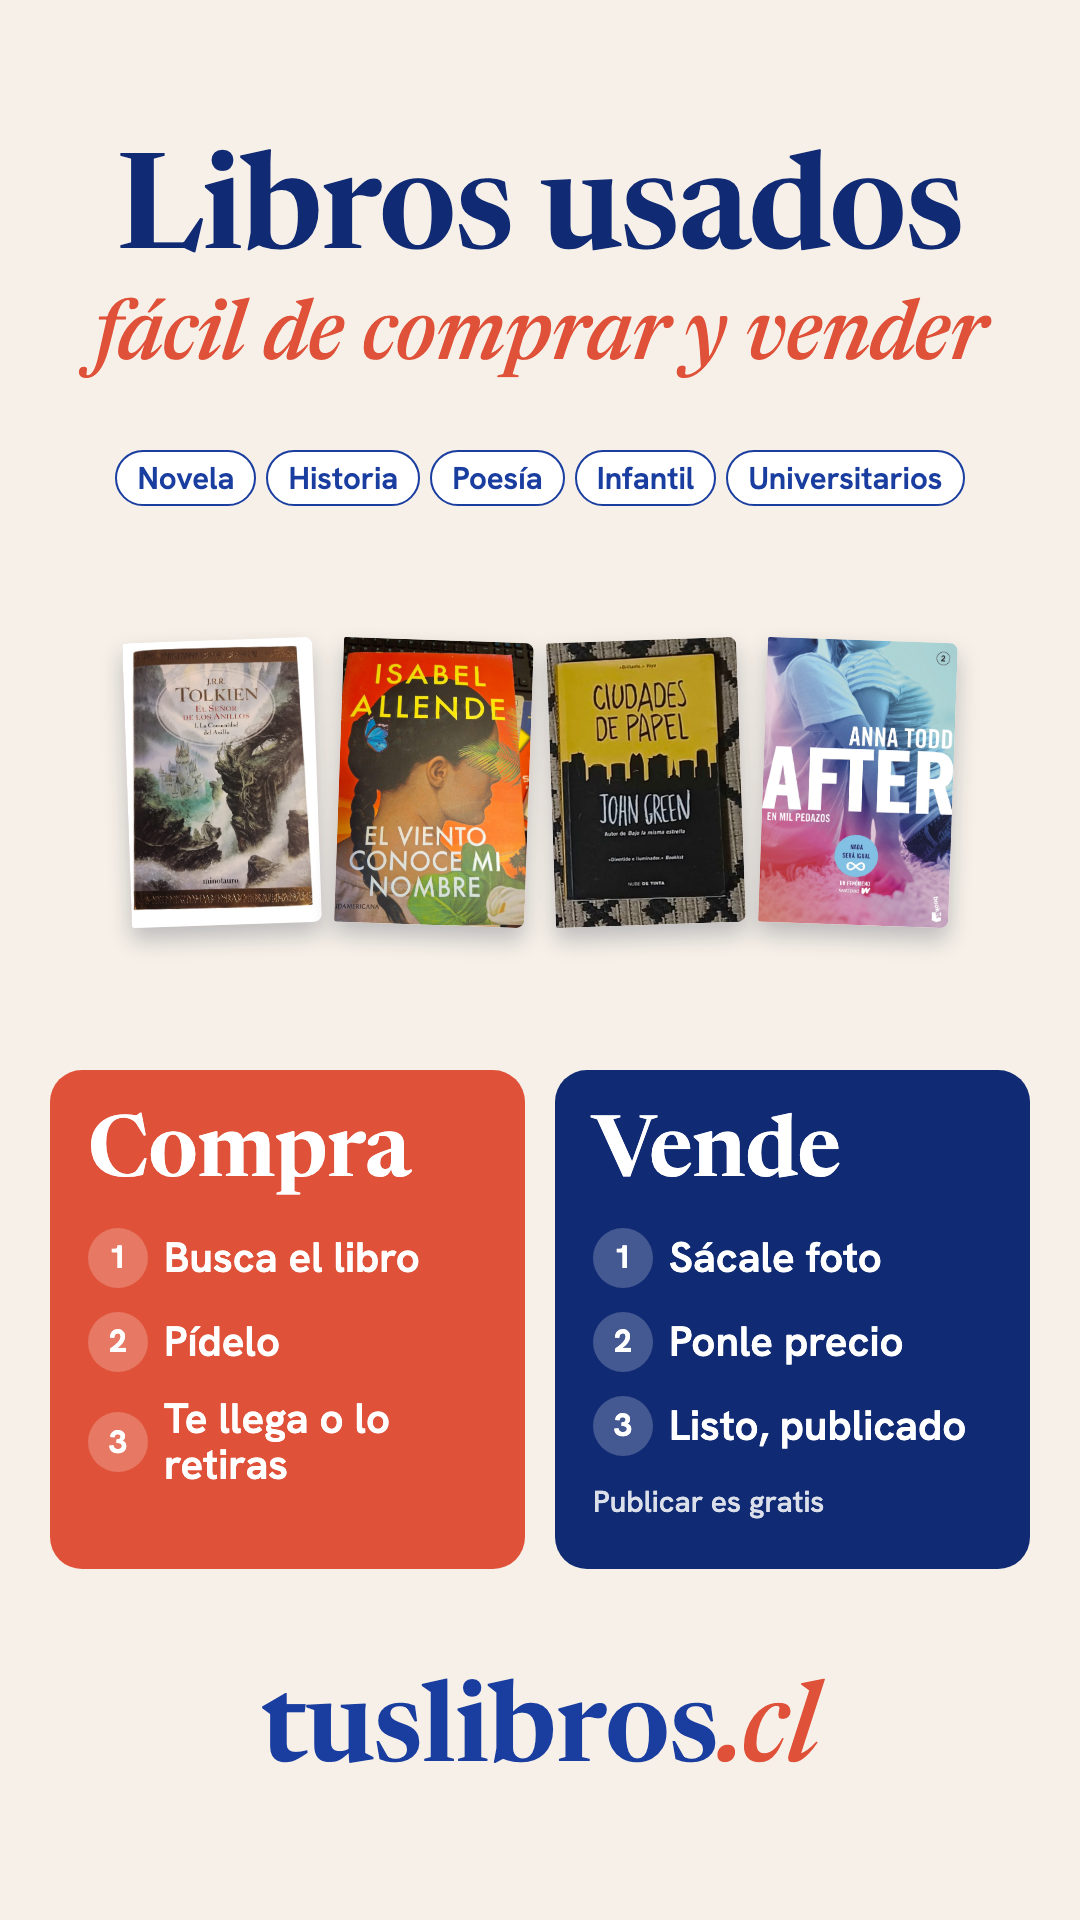
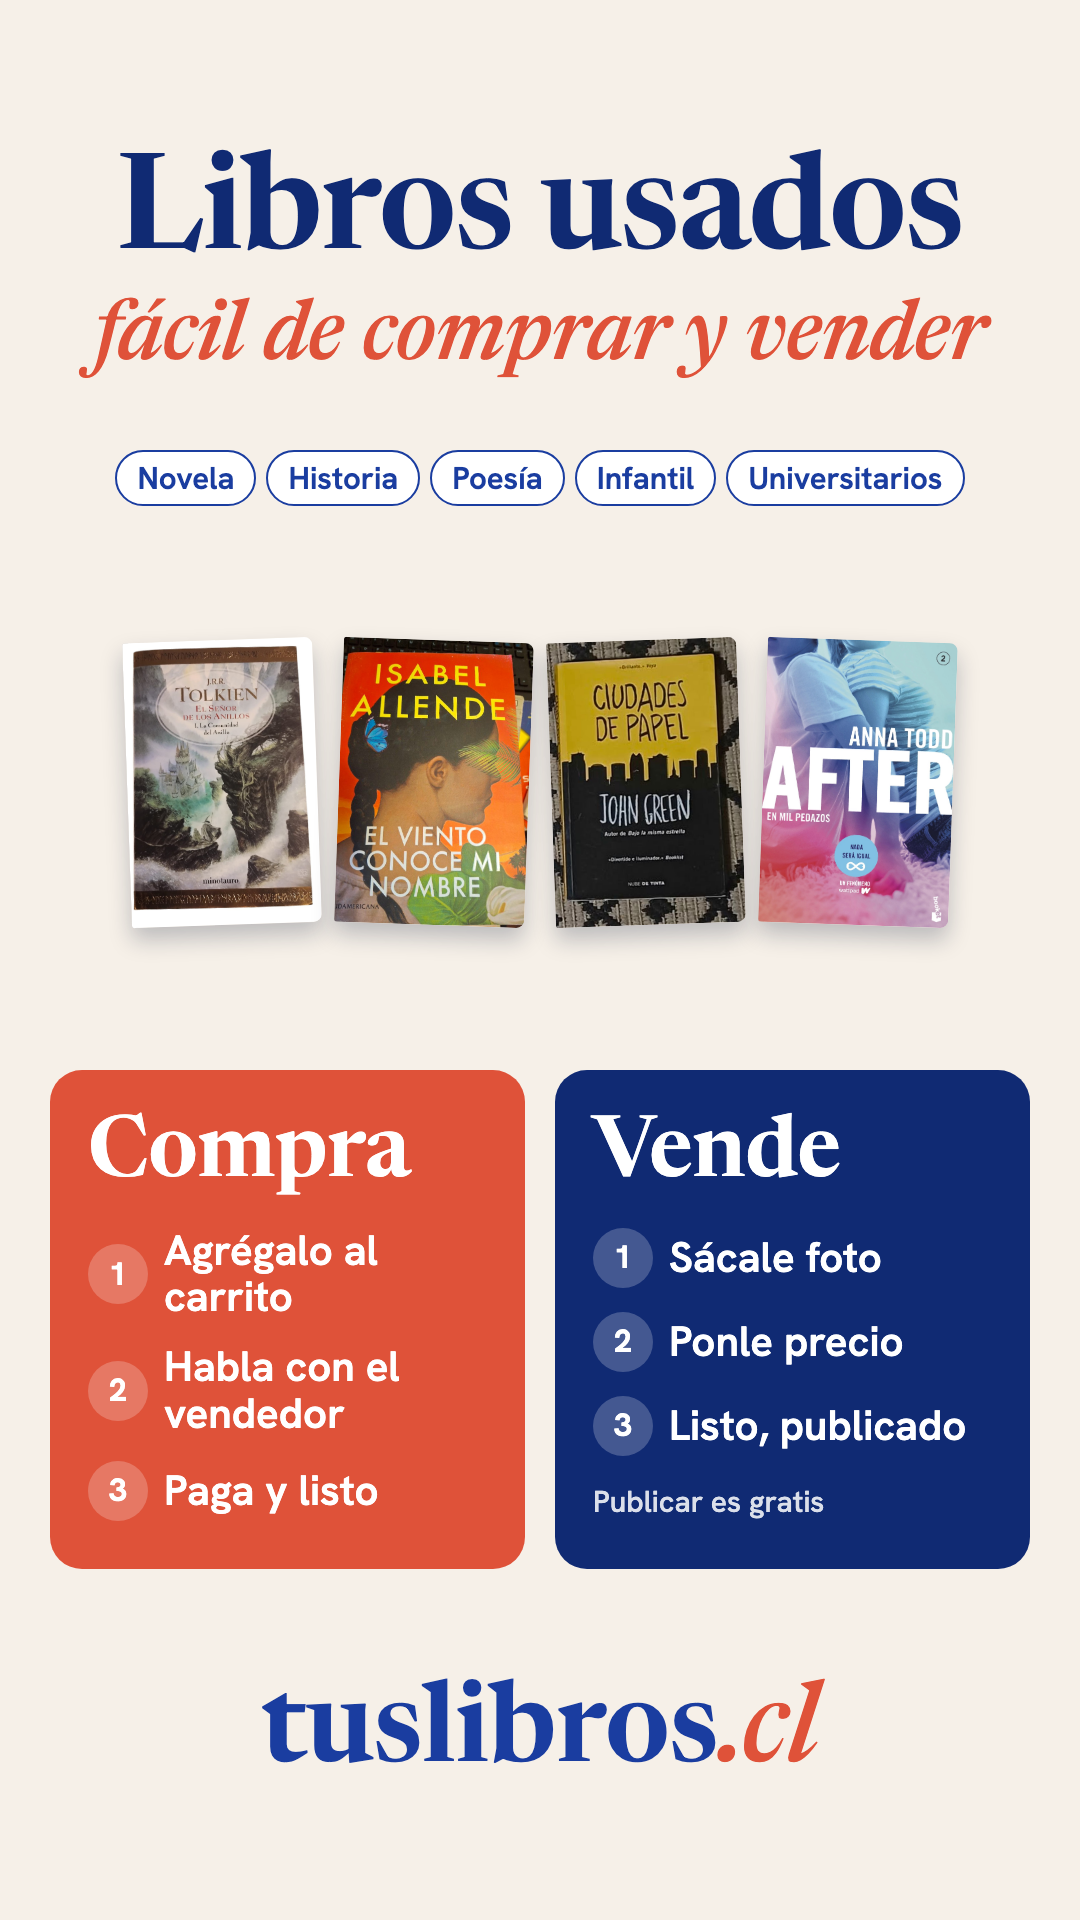
docs(piezas): difusión — pasos de compra reales: carrito, vendedor, paga (iteración 4)

Changed region(s): [[0.0611, 0.625, 0.3667, 0.8125]]

diff --git a/docs/piezas/difusion_amiga_2026-09-27.html b/docs/piezas/difusion_amiga_2026-09-27.html
@@ -5,7 +5,7 @@
   Dos formatos con el mismo contenido: estado 9:16 y grupos 4:5.
   Categorías con más libros activos el 27-09-2026: Novela 1.068, Ensayo 671, Historia 519,
   Poesía 186, Infantil y juvenil 168, Académico/Universitario 184. (Vero cambió las cifras por «fácil» + categorías.)
-  "Te llega o lo retiras": despacho coordinado o encuentro en persona, según el vendedor.
+  Pasos de compra según Vero (27-09): Agrégalo al carrito · Habla con el vendedor · Paga y listo.
 -->
 <html lang="es"><head><meta charset="utf-8">
 <link rel="preconnect" href="https://fonts.googleapis.com"><link rel="preconnect" href="https://fonts.gstatic.com" crossorigin>
@@ -78,7 +78,7 @@
   <div class="cols">
     <div class="col compra">
       <h3>Compra</h3>
-      <ol><li><span>1</span>Busca el libro</li><li><span>2</span>Pídelo</li><li><span>3</span>Te llega o lo retiras</li></ol>
+      <ol><li><span>1</span>Agrégalo al carrito</li><li><span>2</span>Habla con el vendedor</li><li><span>3</span>Paga y listo</li></ol>
     </div>
     <div class="col vende">
       <h3>Vende</h3>

diff --git a/docs/TABLERO_SESION_2026_09_24.md b/docs/TABLERO_SESION_2026_09_24.md
@@ -167,7 +167,7 @@ Precios y pisos en `docs_desde_claude/PISOS_LIBROS_VERO_2026-09.md` (privado: el
 - 24-09 — sección creada a pedido de Vero, a partir de su captura de Mercado Libre.
 - 27-09 — **Piezas de psicología hechas** (pedido de Vero): `docs/piezas/psicologia_compradores_2026-09-27.png` («¿Cuánto cuesta entender a Freud?», con portadas reales de Freud, Jung, Piaget y Maturana) y `psicologia_vendedores_2026-09-27.png` («¿Tus libros de la U siguen en la repisa?», 330 búsquedas en 90 días contra 40 libros). Cifras de la base, fuente en el HTML. **Ojo:** ninguno de los 10 libros de psicología o psiquiatría marcados como vendidos tuvo una orden pagada en el sitio (los marcó el vendedor), así que la pieza no dice «se vendieron acá». Rorschach: no hay en el catálogo ni nadie lo buscó en 180 días; lo más cercano es *Técnicas proyectivas del diagnóstico psicológico* (Anderson y Anderson, $15.000, nicolas). Además, dos **estados de WhatsApp 9:16** con el mínimo de texto: `psicologia_estado_compra_2026-09-27.png` («Psicología usada» + 4 portadas) y `psicologia_estado_venta_2026-09-27.png` («¿Tienes libros de psicología? Véndelos.» + tuslibros.cl/vender).
 - 27-09 — **Estados generales del sitio** (lo que Vero quería de verdad: que cualquiera sepa que existe): `docs/piezas/general_estado_compra_2026-09-27.png` («4.000+ libros usados», 6 portadas reales, «Compra aquí · tuslibros.cl») y `general_estado_vende_2026-09-27.png` («Vende tus libros», Foto · Precio · Listo, «Vende aquí · tuslibros.cl/vender»). Hoy hay 4.186 libros activos, de 165 vendedores y en 74 ciudades. Y una **genérica** que junta las dos: `general_estado_generica_2026-09-27.png` («4.000+ libros usados», 6 portadas, botones «Compra» y «Vende», tuslibros.cl).
-- 27-09 — **Kit de difusión para una amiga de Vero** (estados y grupos de WhatsApp; la gente no entendía qué es ni cómo funciona): `docs/piezas/difusion_estado_2026-09-27.png` (9:16) y `difusion_grupo_2026-09-27.png` (4:5). «Libros usados en todo Chile» · 4.000+ libros · 165 vendedores · 74 ciudades · Compra (Busca el libro · Pídelo · Te llega o lo retiras) · Vende (Sácale foto · Ponle precio · Listo, publicado · Publicar es gratis) · tuslibros.cl. «Pídelo» en vez de «Paga ahí mismo»: no todos los vendedores cobran en el sitio. **En iteración con Vero.** Iteración 2: la línea de cifras pasó a «Fácil de comprar y vender» + categorías con stock real (Novela, Historia, Poesía, Infantil, Universitarios). Iteración 3: fuera «en todo Chile» (no aporta); el título queda «Libros usados · fácil de comprar y vender». Y la **segunda pieza** para el estado, la del clic: `difusion_clic_2026-09-27.png` («¿Buscas un libro o vendes los tuyos? Entra aquí ↓ tuslibros.cl»), para ponerla justo después con el link escrito en el texto.
+- 27-09 — **Kit de difusión para una amiga de Vero** (estados y grupos de WhatsApp; la gente no entendía qué es ni cómo funciona): `docs/piezas/difusion_estado_2026-09-27.png` (9:16) y `difusion_grupo_2026-09-27.png` (4:5). «Libros usados en todo Chile» · 4.000+ libros · 165 vendedores · 74 ciudades · Compra (Busca el libro · Pídelo · Te llega o lo retiras) · Vende (Sácale foto · Ponle precio · Listo, publicado · Publicar es gratis) · tuslibros.cl. «Pídelo» en vez de «Paga ahí mismo»: no todos los vendedores cobran en el sitio. **En iteración con Vero.** Iteración 2: la línea de cifras pasó a «Fácil de comprar y vender» + categorías con stock real (Novela, Historia, Poesía, Infantil, Universitarios). Iteración 3: fuera «en todo Chile» (no aporta); el título queda «Libros usados · fácil de comprar y vender». Y la **segunda pieza** para el estado, la del clic: `difusion_clic_2026-09-27.png` («¿Buscas un libro o vendes los tuyos? Entra aquí ↓ tuslibros.cl»), para ponerla justo después con el link escrito en el texto. Iteración 4: pasos de compra según Vero → «Agrégalo al carrito · Habla con el vendedor · Paga y listo».
 - 24-09 — captura de **Top10Books** (`/ofertas`): menú por uso (literatura complementaria, técnico y universitario, textos escolares, ofertas), filtro por tramos de precio con conteo ("Hasta $9.900 (17)"), filtro por autor con conteo, etiqueta de % de descuento y "Entrega mañana" en cada libro. Nuestro listado ya filtra por precio (mínimo y máximo) y autor, pero a mano, sin tramos ni conteos. Lo que más sirve es la idea 6f.
 
 ---
